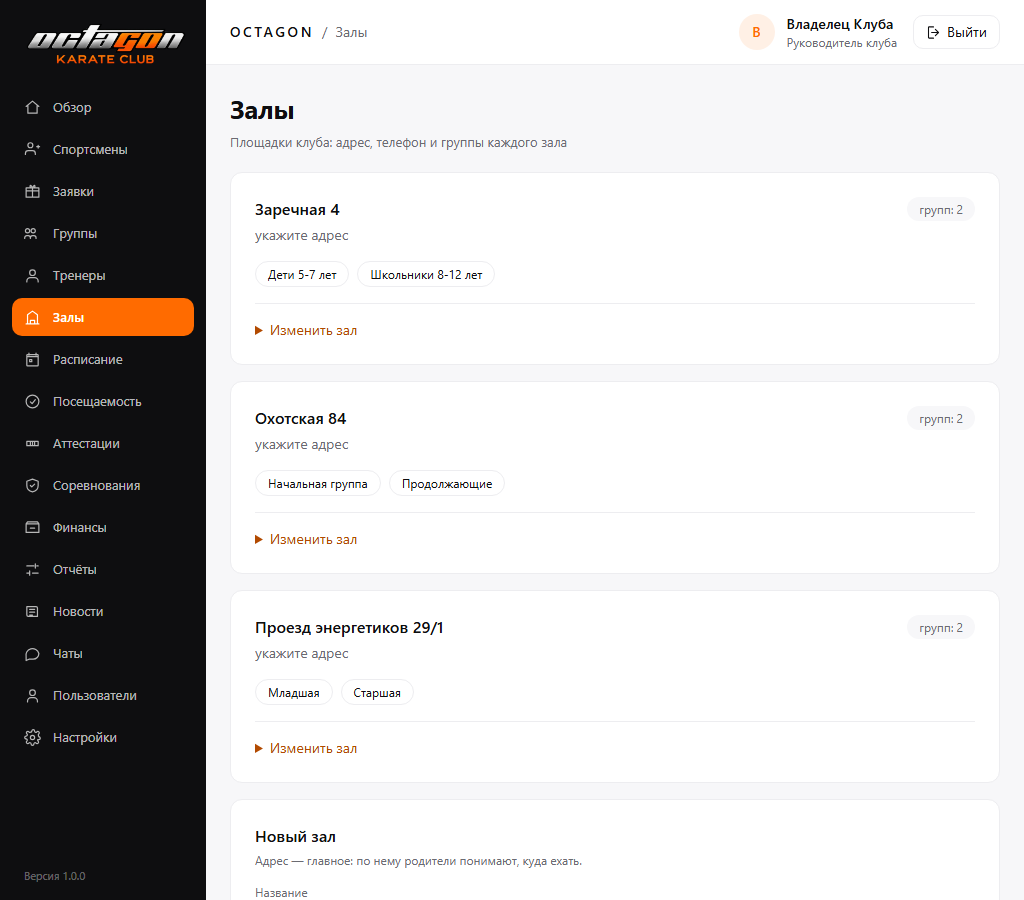
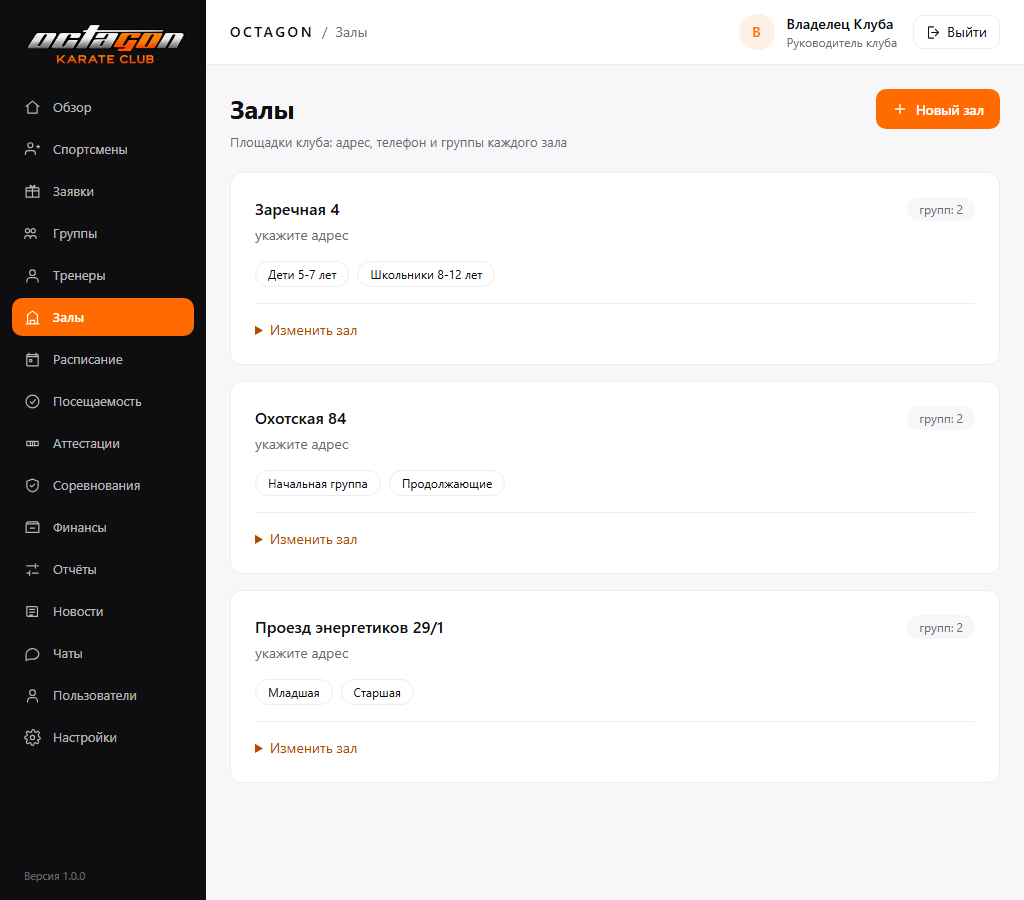
feat(admin): создание аттестаций и турниров в панелях (#134)

Changed region(s): [[0.25, 0.9022, 0.5625, 1.0], [0.8438, 0.0933, 1.0, 0.1556]]

diff --git a/apps/admin/src/app/competitions/page.tsx b/apps/admin/src/app/competitions/page.tsx
@@ -2,6 +2,7 @@ import Link from 'next/link';
 import { redirect } from 'next/navigation';
 
 import { AppShell, Notice, PageHeader } from '@/components/app-shell';
+import { CreatePanel } from '@/components/ui/create-panel';
 import { EmptyState } from '@/components/empty-state';
 import { secondaryButtonClass } from '@/components/ui';
 import { apiFetch, describeError } from '@/lib/api/client';
@@ -85,7 +86,19 @@ export default async function CompetitionsPage() {
 
   return (
     <AppShell user={user}>
-      <PageHeader title="Соревнования" description="Турниры, заявки и результаты" />
+      <PageHeader
+        title="Соревнования"
+        description="Турниры, заявки и результаты"
+        actions={
+          <CreatePanel
+            title="Новый турнир"
+            description="Турнир, заявки участников и результаты."
+            buttonLabel="Новый турнир"
+          >
+            <CreateCompetitionForm inPanel />
+          </CreatePanel>
+        }
+      />
 
       <div className="mb-6">
         <Link className={secondaryButtonClass} href="/competitions/categories">
@@ -100,7 +113,7 @@ export default async function CompetitionsPage() {
       {canManage ? (
         <section className="mb-8 rounded-xl border border-neutral-200 bg-white p-6">
           <h2 className="mb-4 text-lg font-semibold">Новый турнир</h2>
-          <CreateCompetitionForm />
+          <CreatePanel title="Новый турнир" description="Турнир, заявки участников и результаты." buttonLabel="Новый турнир"><CreateCompetitionForm inPanel /></CreatePanel>
         </section>
       ) : null}
 

diff --git a/apps/admin/src/app/attestations/page.tsx b/apps/admin/src/app/attestations/page.tsx
@@ -2,6 +2,7 @@ import Link from 'next/link';
 import { redirect } from 'next/navigation';
 
 import { AppShell, Notice, PageHeader } from '@/components/app-shell';
+import { CreatePanel } from '@/components/ui/create-panel';
 import { EmptyState } from '@/components/empty-state';
 import { secondaryButtonClass } from '@/components/ui';
 import { apiFetch, describeError } from '@/lib/api/client';
@@ -73,7 +74,18 @@ export default async function AttestationsPage() {
   if (!canView) {
     return (
       <AppShell user={user}>
-        <PageHeader title="Аттестации" />
+        <PageHeader
+        title="Аттестации"
+        actions={
+          <CreatePanel
+            title="Новая аттестация"
+            description="Экзамен с участниками и результатами."
+            buttonLabel="Новая аттестация"
+          >
+            <CreateEventForm inPanel />
+          </CreatePanel>
+        }
+      />
         <Notice tone="info">{describePermission('attestations.view')}</Notice>
       </AppShell>
     );
@@ -100,7 +112,7 @@ export default async function AttestationsPage() {
       {canManage ? (
         <section className="mb-8 rounded-xl border border-neutral-200 bg-white p-6">
           <h2 className="mb-4 text-lg font-semibold">Новое мероприятие</h2>
-          <CreateEventForm />
+          <CreatePanel title="Новая аттестация" description="Экзамен с участниками и результатами." buttonLabel="Новая аттестация"><CreateEventForm inPanel /></CreatePanel>
         </section>
       ) : null}
 

diff --git a/apps/admin/src/app/attestations/forms.tsx b/apps/admin/src/app/attestations/forms.tsx
@@ -22,7 +22,7 @@ function localDateTime(offsetDays = 7): string {
 }
 
 /** Создание мероприятия: дата по умолчанию — через неделю. */
-export function CreateEventForm() {
+export function CreateEventForm({ inPanel = false }: { inPanel?: boolean } = {}) {
   const [state, formAction, pending] = useActionState(createEventAction, initial);
 
   return (

diff --git a/apps/admin/src/app/competitions/forms.tsx b/apps/admin/src/app/competitions/forms.tsx
@@ -22,7 +22,7 @@ function localDate(offsetDays = 14): string {
 }
 
 /** Создание турнира. */
-export function CreateCompetitionForm() {
+export function CreateCompetitionForm({ inPanel = false }: { inPanel?: boolean } = {}) {
   const [state, formAction, pending] = useActionState(createCompetitionAction, initial);
 
   return (
